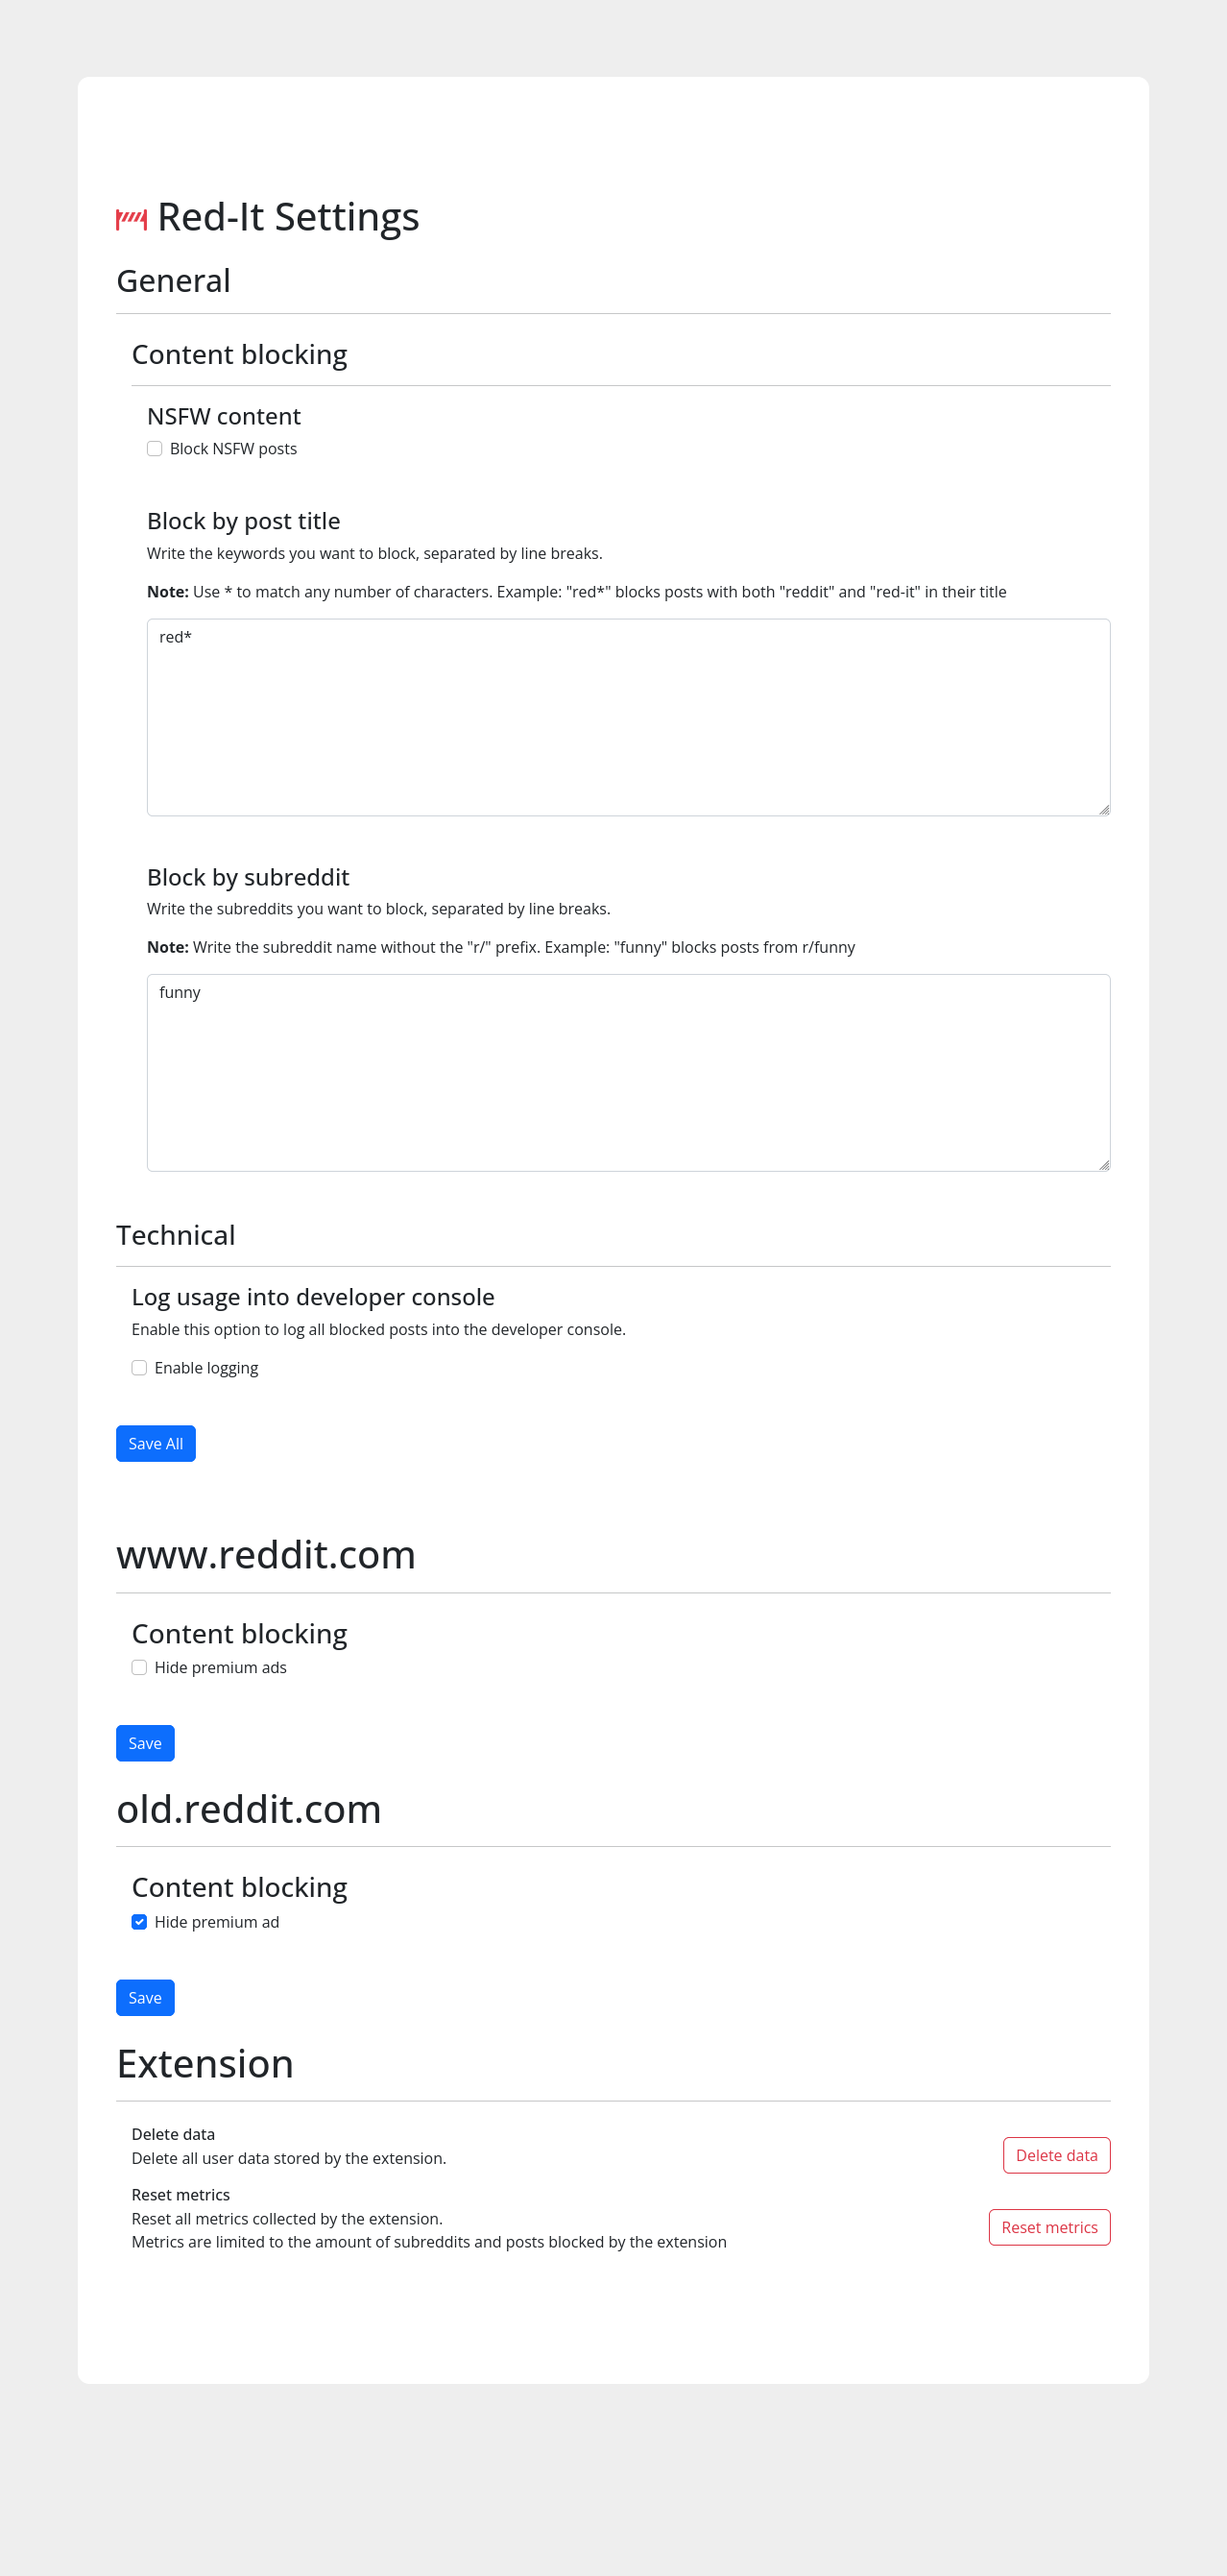
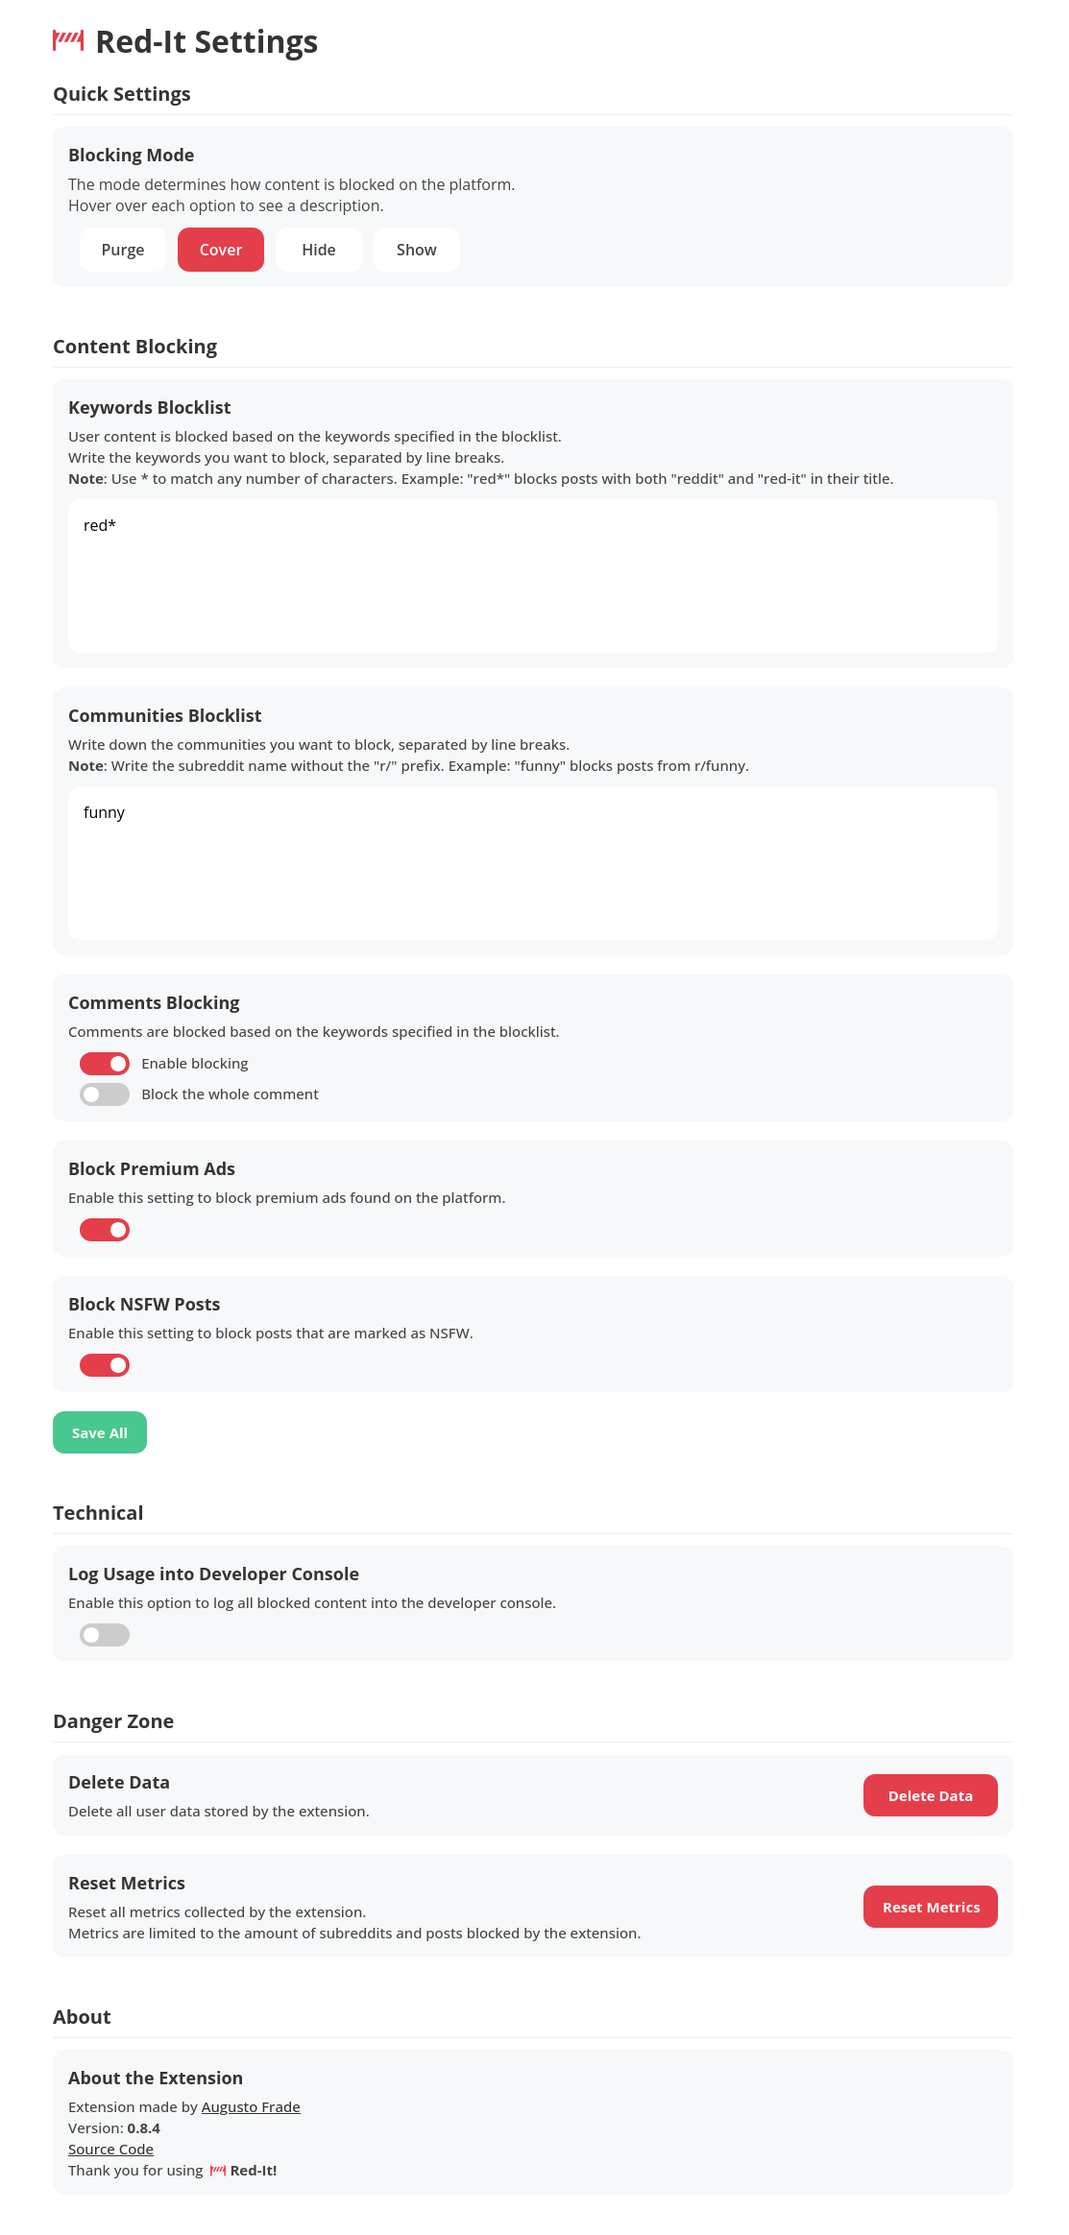
v0.8.4 - Updated README settings section and its screenshots with the new "dashboard" look

diff --git a/src/pages/dashboard.html b/src/pages/dashboard.html
@@ -28,12 +28,7 @@
           <p>The mode determines how content is blocked on the platform.</p>
           <p>Hover over each option to see a description.</p>
           <div class="card-body--simple">
-            <div id="extension-mode-options">
-              <!-- <div class="extension-mode-option" data-value="purge">Purge</div>
-              <div class="extension-mode-option" data-value="cover">Cover</div>
-              <div class="extension-mode-option" data-value="hide">Hide</div>
-              <div class="extension-mode-option" data-value="show">Show</div> -->
-            </div>
+            <div id="extension-mode-options"></div>
           </div>
         </section>
       </section>
@@ -178,7 +173,7 @@
             <div class="card-header">
               <h2 class="card-title">About the Extension</h2>
               <p>Extension made by <a href="https://github.com/augustofrade">Augusto Frade</a></p>
-              <p>Version: <b>0.8.1</b></p>
+              <p>Version: <b>0.8.4</b></p>
               <p>
                 <a href="https://github.com/augustofrade/red-it-extension">Source Code</a>
               </p>

diff --git a/README.md b/README.md
@@ -11,7 +11,7 @@
 <p align="center">
   <img src="https://img.shields.io/badge/Firefox-Compatible-orange?style=flat-square&logo=firefox" alt="Firefox Compatible">
   <img src="https://img.shields.io/badge/Firefox%20Mobile-Compatible-orange?style=flat-square&logo=firefox" alt="Firefox Mobile Compatible">
-  <img src="https://img.shields.io/badge/Version-0.8.3-blue?style=flat-square" alt="Version">
+  <img src="https://img.shields.io/badge/Version-0.8.4-blue?style=flat-square" alt="Version">
 </p>
 
 Red-It is a Firefox extension designed to enhance your Reddit browsing experience by allowing you to block unwanted posts based on keywords. Take control of your Reddit feed and filter out posts that contain specific words, phrases and simple patterns you'd rather not see.
@@ -64,23 +64,26 @@ The only way to stop being shown is to remove the subreddit from the blocklist.
 
 ![Blocked Community Notice](public/screenshot-blocked-community.png)
 
-### Settings Page
+### Dashboard
 
-This page has the following sections and features:
+The dashboard has the following sections and features:
 
-- General
-  - Posts keyword blocklist
+- Quick Settings
+
+  - Changed the blocking mode of the extension just like in its popup
+
+- Content Blocking
+  - Keyword blocklist
   - Communities/subreddits blocklist
+  - Comments blocking settings (toggle and mode)
+  - Block premium ads
   - NSFW posts blocking
 - Technical
   - Extension inner workings logging on the console
-- www.reddit.com
-  - Block premium ads
-- old.reddit.com
-  - Block premium ad
-- Extension
+- Danger Zone
   - Delete data
   - Reset extension metrics
+- About
 
 Bellow is a **portion** of the Settings page. To view the complete page, see [this screenshot](public/screenshot-settings-all.png).
 
